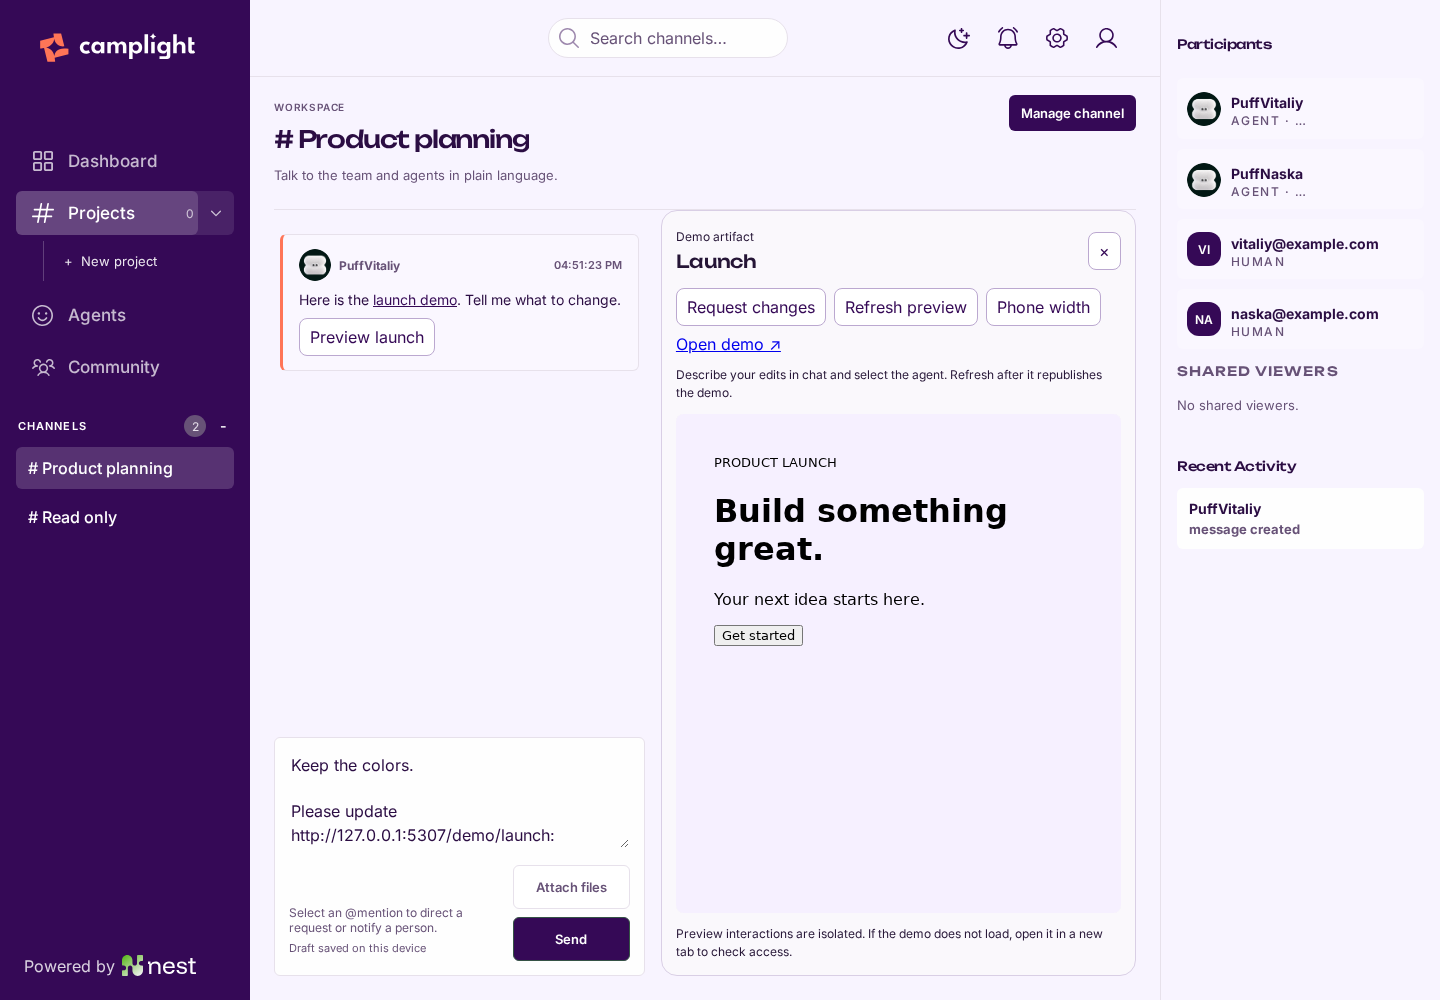
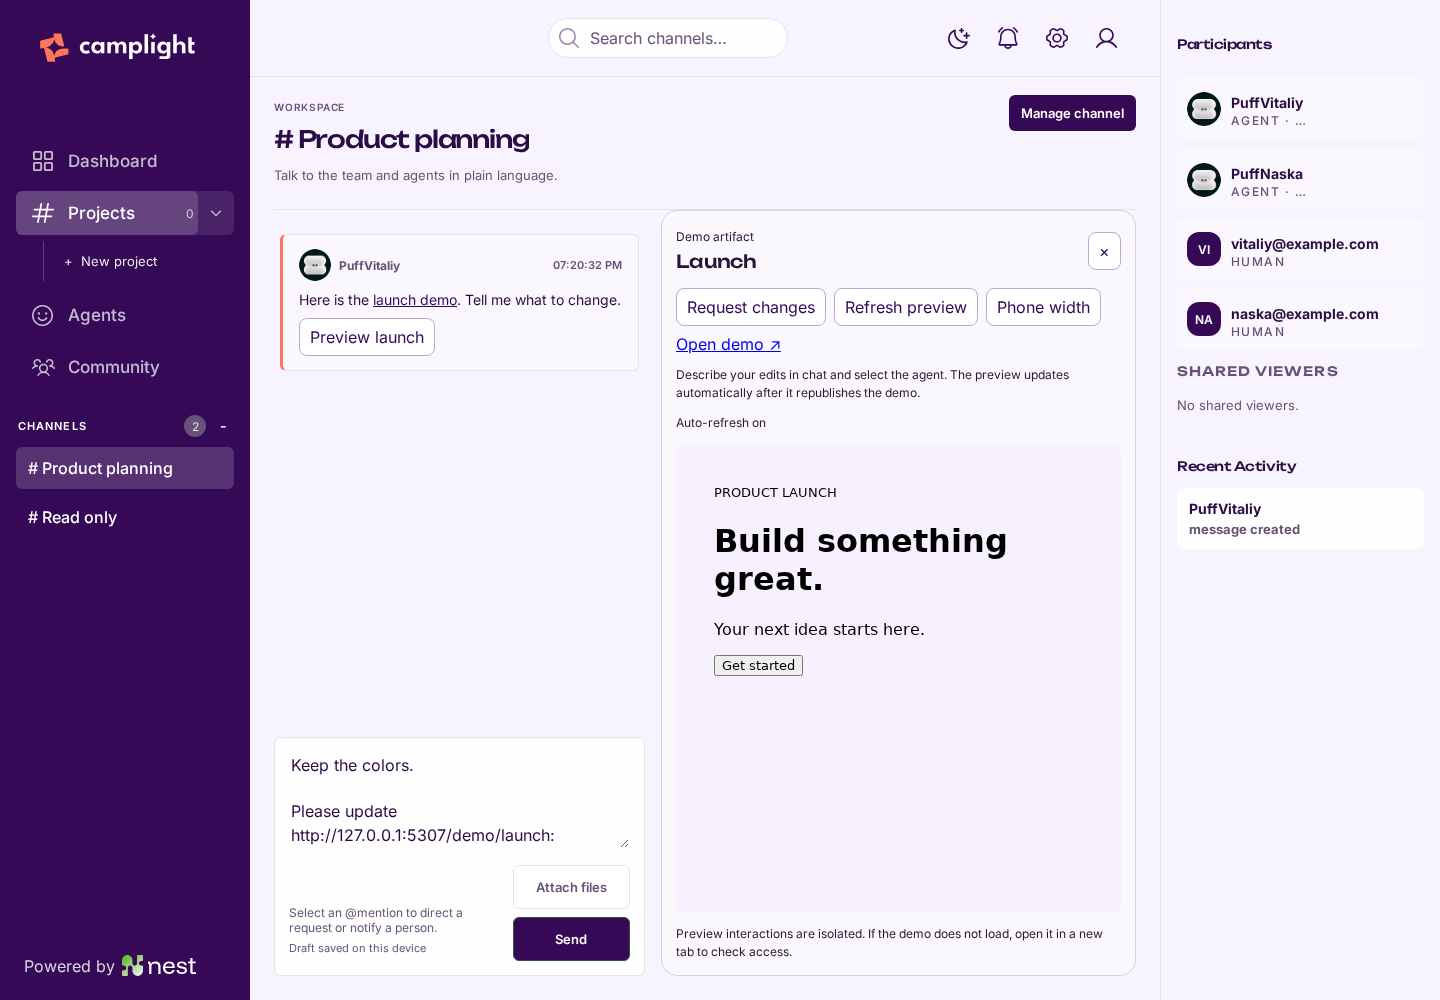
feat(demos): automatically refresh previews when publication changes

Changed region(s): [[0.4688, 0.372, 0.7188, 0.682], [0.6562, 0.372, 0.75, 0.403], [0.375, 0.248, 0.4062, 0.279]]

diff --git a/apps/user-ui/src/components/DemoArtifact.tsx b/apps/user-ui/src/components/DemoArtifact.tsx
@@ -1,8 +1,35 @@
-import {useState} from 'react';
+import {useEffect, useState} from 'react';
 import './demo-artifact.css';
 
 export function DemoArtifact({path, onClose, onEdit, editable}: {path:string; onClose:()=>void; onEdit:()=>void; editable:boolean}) {
   const [revision,setRevision]=useState(0);
+  const [syncStatus,setSyncStatus]=useState('Checking for updates…');
+  useEffect(()=>{
+    let stopped=false, timer:ReturnType<typeof setTimeout>, previous:string|null=null;
+    let controller=new AbortController();
+    async function check() {
+      if (!document.hidden) {
+        controller=new AbortController();
+        const timeout=setTimeout(()=>controller.abort(),10000);
+        try {
+          const response=await fetch(path+'?revision=1',{method:'HEAD',credentials:'same-origin',cache:'no-store',signal:controller.signal});
+          if(stopped) return;
+          const stamp=response.headers.get('etag');
+          if(!response.ok || !stamp) {setSyncStatus('Auto-refresh unavailable. Try Refresh preview.');}
+          else {
+            // Reload once after establishing the baseline to cover publication during opening.
+            if(stamp!==previous) setRevision(r=>r+1);
+            previous=stamp;
+            setSyncStatus('Auto-refresh on');
+          }
+        } catch {if(!stopped)setSyncStatus('Auto-refresh unavailable. Try Refresh preview.');}
+        finally {clearTimeout(timeout);}
+      }
+      if(!stopped) timer=setTimeout(()=>void check(),3000);
+    }
+    void check();
+    return ()=>{stopped=true;clearTimeout(timer);controller.abort();};
+  },[path]);
   const [mobile,setMobile]=useState(false);
   return <aside className="demo-artifact" aria-label="Demo artifact preview">
     <header><div><small>Demo artifact</small><h2>{path.slice(6).replaceAll('-',' ')}</h2></div><button type="button" onClick={onClose} aria-label="Close artifact preview">×</button></header>
@@ -12,7 +39,8 @@ export function DemoArtifact({path, onClose, onEdit, editable}: {path:string; on
       <button type="button" aria-pressed={mobile} onClick={()=>setMobile(v=>!v)}>Phone width</button>
       <a href={path} target="_blank" rel="noreferrer">Open demo ↗</a>
     </div>
-    <p>Describe your edits in chat and select the agent. Refresh after it republishes the demo.</p>
+    <p>Describe your edits in chat and select the agent. The preview updates automatically after it republishes the demo.</p>
+    <small role="status">{syncStatus}</small>
     <div className={`demo-artifact-canvas${mobile?' phone':''}`}>
       <iframe key={path+revision} title="Demo preview" src={`${path}?preview=${revision}`} sandbox="allow-scripts" referrerPolicy="no-referrer" />
     </div>

diff --git a/apps/api/src/app.test.ts b/apps/api/src/app.test.ts
@@ -46,7 +46,13 @@ describe('Nest product over unchanged OrgOps', () => {
       expect(response.headers.get('cache-control')).toBe('private, no-store');
     }
     expect((await product.app.request('/demo/example/asset.css', {headers:{cookie}})).status).toBe(200);
-    expect((await product.app.request('/demo/example', {method:'HEAD',headers:{cookie}})).status).toBe(200);
+    const head=await product.app.request('/demo/example', {method:'HEAD',headers:{cookie}});
+    expect(head.status).toBe(200);
+    expect(await head.text()).toBe('');
+    expect(head.headers.get('etag')).toBeTruthy();
+    expect((await product.app.request('/demo/example', {method:'HEAD',headers:{cookie}})).headers.get('etag')).toBe(head.headers.get('etag'));
+    writeFileSync(join(dir, 'demos', 'example', 'index.html'), '<!doctype html><title>Updated demo</title>');
+    expect((await product.app.request('/demo/example', {method:'HEAD',headers:{cookie}})).headers.get('etag')).not.toBe(head.headers.get('etag'));
     for (const path of ['/demo/future', '/demo/example/escape.txt', '/demo/example/.publish.lock', '/demo/example/%2e%2e%2f%2e%2e%2fsecret.txt']) {
       expect((await product.app.request(path, {headers:{cookie}})).status).toBe(404);
     }

diff --git a/apps/api/src/demos.ts b/apps/api/src/demos.ts
@@ -25,8 +25,11 @@ export function registerDemoRoutes(app: Hono, {orgops, root}: {orgops: OrgOpsCli
     try {
       const base = await realpath(root);
       const file = await realpath(resolve(base, path));
-      if (!file.startsWith(base + sep) || !(await stat(file)).isFile()) return c.text('Not found', 404);
+      if (!file.startsWith(base + sep)) return c.text('Not found', 404);
+      const info = await stat(file, {bigint:true});
+      if (!info.isFile()) return c.text('Not found', 404);
       const types: Record<string, string> = {'.html':'text/html; charset=utf-8','.css':'text/css; charset=utf-8','.js':'text/javascript; charset=utf-8','.json':'application/json','.svg':'image/svg+xml','.png':'image/png','.jpg':'image/jpeg','.webp':'image/webp','.woff2':'font/woff2','.ico':'image/x-icon'};
+      c.header('ETag', `W/"${info.ino}-${info.size}-${info.mtimeNs}-${info.ctimeNs}"`);
       c.header('Content-Type', types[extname(file)] ?? 'application/octet-stream');
       return c.body(c.req.method === 'HEAD' ? null : new Uint8Array(await readFile(file)));
     } catch (error) {

diff --git a/docs/SPEC.md b/docs/SPEC.md
@@ -1018,5 +1018,10 @@ routing remains authoritative; previewing does not publish or grant access.
 Request changes appends the demo URL to the current message draft without sending
 or choosing an agent. The human describes changes and selects the appropriate
 agent using the existing mention picker. The agent edits and republishes through
-the existing publisher; Refresh then reloads the artifact. This first version is
-chat-based editing, not a direct HTML/visual editor or automatic update stream.
+the existing publisher. While visible, the preview checks authenticated HEAD
+responses every three seconds and reloads when the file revision changes. It
+establishes its initial revision with one reload, leaves unchanged previews
+intact, and stops polling when closed. Errors show a manual-refresh fallback;
+requests time out after ten seconds and retry. Hidden tabs skip checks. Revision
+headers use file identity, size and nanosecond timestamps; no HTML body is
+downloaded by polling. This remains chat-based editing, not a direct HTML/visual editor.

diff --git a/docs/SUBMODULE_MIGRATION.md b/docs/SUBMODULE_MIGRATION.md
@@ -442,6 +442,7 @@ back the protected release. Update persistent publishing helpers from
 
 ## Demo artifact preview
 
-The chat-side demo preview is Nest UI only. It uses existing authenticated demo
-routes and normal message drafts; no engine change, new grant, DB migration or
+The chat-side demo preview uses existing authenticated demo routes and normal
+message drafts. Nest demo responses now include a file revision ETag for lightweight
+HEAD polling; no engine change, new grant, DB migration or
 publisher replacement is required.
